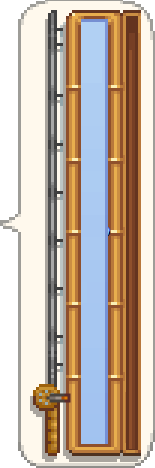
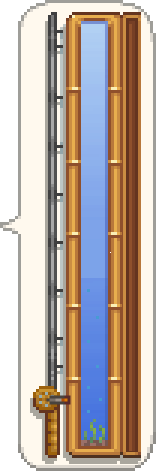
Fishing

Changed region(s): [[0.129, 0.0, 1.0, 1.0], [0.0258, 0.4487, 0.129, 0.5085], [0.129, 0.9573, 0.1806, 0.9872]]

diff --git a/core/src/main/java/com/ap_project/client/views/game/FishingMiniGameView.java b/core/src/main/java/com/ap_project/client/views/game/FishingMiniGameView.java
@@ -7,33 +7,55 @@ import com.ap_project.common.models.GameAssetManager;
 import com.ap_project.common.models.enums.Quality;
 import com.ap_project.common.models.enums.types.FishType;
 import com.badlogic.gdx.Gdx;
+import com.badlogic.gdx.Input;
 import com.badlogic.gdx.InputProcessor;
 import com.badlogic.gdx.Screen;
 import com.badlogic.gdx.scenes.scene2d.Stage;
 import com.badlogic.gdx.scenes.scene2d.ui.Image;
-import com.badlogic.gdx.utils.ScreenUtils;
 import com.badlogic.gdx.utils.viewport.ScreenViewport;
-
-import static com.ap_project.client.views.game.GameMenuView.hoverOnImage;
 
 public class FishingMiniGameView implements Screen, InputProcessor {
     private Stage stage;
     private final Image window;
-    private final float windowX;
     private final float windowY;
     private final Image fish;
     private final Image greenBar;
+    private float greenBarY;
+    private final Image scoreBar;
+    private float score;
     private final GameView gameView;
     private final FishingController controller;
-    private final Image closeButton;
 
     public FishingMiniGameView(GameView gameView) {
         this.window = new Image(GameAssetManager.getGameAssetManager().getFishingMiniGameWindow());
-        this.windowX = (Gdx.graphics.getWidth() - window.getWidth()) / 2;
-        this.windowY = (Gdx.graphics.getHeight() - window.getHeight()) / 2;
-        this.fish = new Image(GameAssetManager.getGameAssetManager().getTextureByFish(new Fish(FishType.SALMON, Quality.NORMAL))); // TODO
-        this.greenBar = new Image();
-        this.closeButton = new Image(GameAssetManager.getGameAssetManager().getCloseButton());
+        float windowX = Gdx.graphics.getWidth() / 2f + 50;
+        this.windowY = Gdx.graphics.getHeight() / 2f - 300;
+        window.setPosition(windowX, windowY);
+
+        // TODO: get random fishing type based on season and skill and add sonar bobber
+        // TODO: add orange crown if it's legendary
+        this.fish = new Image(GameAssetManager.getGameAssetManager().getTextureByFish(new Fish(FishType.SUNFISH, Quality.NORMAL)));
+        fish.setScale(0.65f);
+        fish.setPosition(
+            windowX + 80,
+            windowY + (window.getHeight() / 2) - (fish.getHeight() / 2)
+        );
+
+        this.greenBar = new Image(GameAssetManager.getGameAssetManager().getFishingGreenBar());
+        greenBarY = windowY + window.getHeight() / 2;
+        greenBar.setPosition(
+            windowX + 81,
+            greenBarY
+        );
+
+        score = 0;
+        this.scoreBar = new Image(GameAssetManager.getGameAssetManager().getGreenBar());
+        scoreBar.setWidth(8f);
+        scoreBar.setPosition(
+            windowX + 128,
+            windowY + 20
+        );
+
         this.controller = new FishingController(this);
         this.gameView = gameView;
     }
@@ -43,26 +65,22 @@ public class FishingMiniGameView implements Screen, InputProcessor {
         stage = new Stage(new ScreenViewport());
         Gdx.input.setInputProcessor(this);
 
-        window.setPosition(windowX, windowY);
         stage.addActor(window);
-
-        float fishX = windowX + (window.getWidth() - fish.getWidth()) / 2;
-        float fishY = windowY + (window.getHeight() / 2) - (fish.getHeight() / 2);
-        fish.setPosition(fishX, fishY);
+        stage.addActor(greenBar);
         stage.addActor(fish);
-        addCloseButton();
+        stage.addActor(scoreBar);
     }
 
     @Override
     public void render(float delta) {
-        ScreenUtils.clear(0, 0, 0, 1);
+        fish.setY(windowY + controller.getFishYOffset(delta));
+        greenBar.setY(greenBarY);
+        scoreBar.setHeight(score);
 
-        fish.setPosition(
-            windowX + (window.getWidth() / 2) - (fish.getWidth() / 2),
-            windowY + controller.getFishYOffset(delta)
-        );
+        score++; // TODO: change based on if fish is on green bar or not and finish mini game if its 0 or full
+        // TODO: track if fishing was perfect and after winning, show on top of the screen if it is and increase quality and fishing skill
 
-        stage.act(Math.min(delta, 1/30f));
+        stage.act(Math.min(delta, 1 / 30f));
         stage.draw();
     }
 
@@ -93,6 +111,20 @@ public class FishingMiniGameView implements Screen, InputProcessor {
 
     @Override
     public boolean keyDown(int keycode) {
+        if (keycode == Input.Keys.Q) {
+            Main.getMain().setScreen(gameView);
+            return true;
+        }
+
+        // TODO: restrict greenBarY
+        if (keycode == Input.Keys.UP) {
+            greenBarY += 10;
+        }
+
+        if (keycode == Input.Keys.DOWN) {
+            greenBarY -= 10;
+        }
+
         return false;
     }
 
@@ -108,16 +140,8 @@ public class FishingMiniGameView implements Screen, InputProcessor {
 
     @Override
     public boolean touchDown(int screenX, int screenY, int pointer, int button) {
-        float convertedY = Gdx.graphics.getHeight() - screenY;
-
-        if (hoverOnImage(closeButton, screenX, convertedY)) {
-            Main.getMain().setScreen(gameView);
-            return true;
-        }
-
         return false;
     }
-
 
     @Override
     public boolean touchUp(int screenX, int screenY, int pointer, int button) {
@@ -142,15 +166,6 @@ public class FishingMiniGameView implements Screen, InputProcessor {
     @Override
     public boolean scrolled(float amountX, float amountY) {
         return false;
-    }
-    public void addCloseButton() {
-        float buttonX = Gdx.graphics.getWidth() / 2f + 400f;
-        float buttonY = Gdx.graphics.getHeight() / 2f + 300f;
-
-        closeButton.setPosition(buttonX, buttonY);
-        closeButton.setSize(closeButton.getWidth(), closeButton.getHeight());
-
-        stage.addActor(closeButton);
     }
 
     public Image getWindow() {

diff --git a/core/src/main/java/com/ap_project/client/controllers/FishingController.java b/core/src/main/java/com/ap_project/client/controllers/FishingController.java
@@ -6,56 +6,43 @@ import com.ap_project.common.models.enums.types.FishMovementType;
 import java.util.Random;
 
 public class FishingController {
-    float fishY;
-    float fishSpeedY;
-    float fishMaxSpeed = 50f;
-    float greenZoneMinY, greenZoneMaxY;
-    float captureMeter;
-    float captureSpeed = 0.1f;
-    float captureDecaySpeed = 0.05f;
-    long lastUpdateTime;
+    private float fishY;
+    private float fishSpeedY;
+    private long lastUpdateTime;
     private final FishingMiniGameView view;
-    private final FishMovementType movementType;
-    private float time;
+    private FishMovementType movementType;
 
     public FishingController(FishingMiniGameView view) {
         this.movementType = FishMovementType.values()[(new Random()).nextInt(FishMovementType.values().length)];
         this.view = view;
-        this.time = 0;
         this.fishY = view.getWindow().getHeight() / 2f;
-        this.greenZoneMinY = fishY - 30;
-        this.greenZoneMaxY = fishY + 30;
     }
 
     public void updateMovement(float deltaTime) {
-        long now = System.currentTimeMillis();
-        if (now - lastUpdateTime >= 500) {
-            lastUpdateTime = now;
+        movementType = FishMovementType.MIXED; // TODO: remove later
+        if (movementType == FishMovementType.MIXED) {
+            long now = System.currentTimeMillis();
+            if (now - lastUpdateTime >= 500) {
+                lastUpdateTime = now;
 
-            int moveDirection = (int)(Math.random() * 3) - 1;
-            fishSpeedY = moveDirection * fishMaxSpeed;
-        }
-
-        fishY += fishSpeedY * deltaTime;
-
-        fishY = Math.max(0, Math.min(fishY, view.getWindow().getHeight()));
-
-        greenZoneMinY = fishY - 30;
-        greenZoneMaxY = fishY + 30;
-
-        if (fishY >= greenZoneMinY && fishY <= greenZoneMaxY) {
-            captureMeter = Math.min(1f, captureMeter + captureSpeed * deltaTime);
-        } else {
-            captureMeter = Math.max(0f, captureMeter - captureDecaySpeed * deltaTime);
+                int moveDirection = (int) (Math.random() * 3) - 1;
+                fishSpeedY = moveDirection * 50;
+            }
+            fishY += fishSpeedY * deltaTime;
+            fishY = Math.max(0, Math.min(fishY, view.getWindow().getHeight() + 20));
+        } else if (movementType == FishMovementType.SINKER) {
+            // TODO
+        } else if (movementType == FishMovementType.SMOOTH) {
+            // TODO
+        } else if (movementType == FishMovementType.FLOATER) {
+            // TODO
+        } else if (movementType == FishMovementType.DART) {
+            // TODO
         }
     }
 
     public float getFishYOffset(float deltaTime) {
         updateMovement(deltaTime);
         return fishY;
-    }
-
-    public float getCaptureMeter() {
-        return captureMeter;
     }
 }

diff --git a/core/src/main/java/com/ap_project/common/models/enums/types/GoodsType.java b/core/src/main/java/com/ap_project/common/models/enums/types/GoodsType.java
@@ -73,7 +73,6 @@ public enum GoodsType implements ItemType {
     CRANBERRY_SEEDS("Cranberry Seeds", "Plant these in the fall. Takes 7 days to mature, and continues to produce after first harvest.", 300, 5, "Jojamart", new ArrayList<>(List.of(Season.FALL))),
     FAIRY_SEEDS("Fairy Seeds", "Plant in fall. Takes 12 days to produce a mysterious flower. Assorted colors.", 250, 5, "Jojamart", new ArrayList<>(List.of(Season.FALL))),
     RARE_SEED("Rare Seed", "Sow in fall. Takes all season to grow.", 1000, 1, "Jojamart", new ArrayList<>(List.of(Season.FALL))),
-    WHEAT_SEEDS("Wheat Seeds", "Plant these in the summer or fall. Takes 4 days to mature. Harvest with the scythe.", 12, 5, "Jojamart", new ArrayList<>(List.of(Season.FALL))),
     POWDERMELON_SEEDS("Powdermelon Seeds", "This special melon grows in the winter. Takes 7 days to grow.", 20, 10, "Jojamart", new ArrayList<>(List.of(Season.WINTER))),
     RICE("Rice", "A basic grain often served under vegetables.", 200, -1, "Pierre's General Store", new ArrayList<>(List.of(Season.SPRING, Season.SUMMER, Season.FALL, Season.WINTER))),
     WHEAT_FLOUR_PIERRE("Wheat Flour", "A common cooking ingredient made from crushed wheat seeds.", 100, -1, "Pierre's General Store", new ArrayList<>(List.of(Season.SPRING, Season.SUMMER, Season.FALL, Season.WINTER))),

diff --git a/core/src/main/java/com/ap_project/common/models/GameAssetManager.java b/core/src/main/java/com/ap_project/common/models/GameAssetManager.java
@@ -105,6 +105,10 @@ public class GameAssetManager {
             return getTextureByAnimalProduct((AnimalProduct) item);
         }
 
+        if (item instanceof Fish) {
+            return getTextureByFish((Fish) item);
+        }
+
         if (item instanceof ForagingCrop) {
             return getTextureByForagingCrop((ForagingCrop) item);
         }
@@ -131,6 +135,10 @@ public class GameAssetManager {
 
     public Texture getTextureByAnimalProduct(AnimalProduct animalProduct) {
         return new Texture(Gdx.files.internal("Images/AnimalProduct/" + toPascalCase(animalProduct.getName())) + ".png");
+    }
+
+    public Texture getTextureByFish(Fish fish) {
+        return new Texture(Gdx.files.internal("Images/Fish/" + toPascalCase(fish.getName()) + ".png"));
     }
 
     public Texture getTextureByForagingCrop(ForagingCrop foragingCrop) {
@@ -486,5 +494,9 @@ public class GameAssetManager {
 
     public Texture getFishingMiniGameWindow() {
         return new Texture(Gdx.files.internal("Images/FishingMiniGame/FishingMiniGameWindow.png"));
+    }
+
+    public Texture getFishingGreenBar() {
+        return new Texture(Gdx.files.internal("Images/FishingMiniGame/FishingGreenBar.png"));
     }
 }
